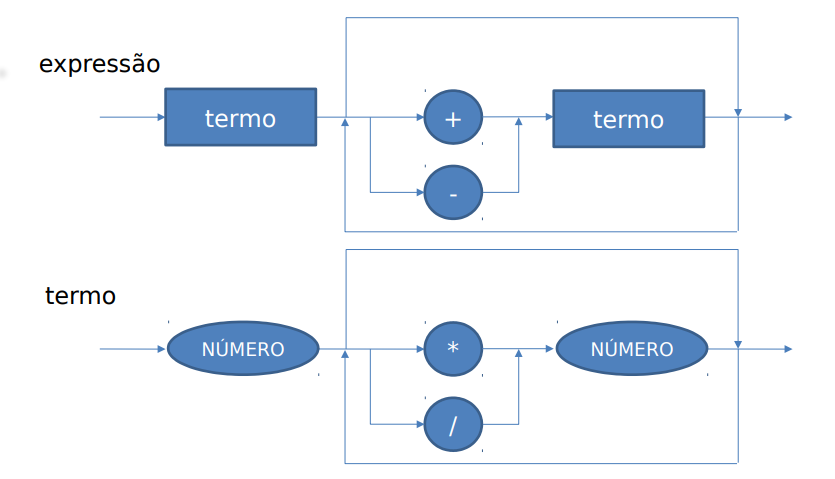
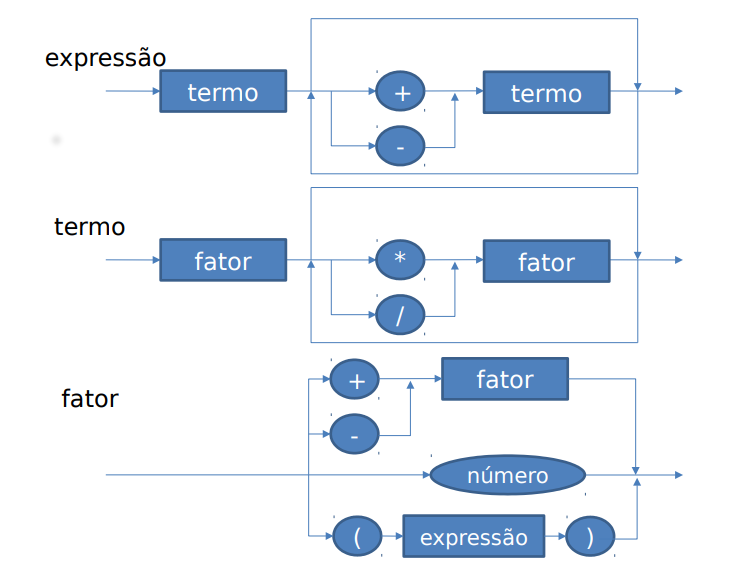
parênteses e operações unárias implementados e funcionando

diff --git a/Main.py b/Main.py
@@ -45,6 +45,14 @@ class Tokenizer:
             self.actual = Token("minus", "-")
             self.position = self.position + 1
 
+        elif self.origin[self.position] == '(': # se for abrir par
+            self.actual = Token("openpar", "(")
+            self.position = self.position + 1
+
+        elif self.origin[self.position] == ')': # se for fechar par
+            self.actual = Token("closepar", ")")
+            self.position = self.position + 1
+
         else:
             raise ValueError("Caractere inválido.")
 
@@ -53,28 +61,14 @@ class Tokenizer:
 class Parser:
     
     def parseTerm():
-        if Parser.tokens.actual.type == "int":
-            res = Parser.tokens.actual.value
-            Parser.tokens.selectNext()
-            while Parser.tokens.actual.type == "mult" or Parser.tokens.actual.type == "div":
-                if Parser.tokens.actual.type == "mult":
-                    Parser.tokens.selectNext()
-                    if Parser.tokens.actual.type == "int":
-                        res = res * Parser.tokens.actual.value
-                    else:
-                        raise ValueError('Esperava-se um int e foi encontrado um', Parser.tokens.actual.type, 'durante a soma.')
-                    
-                elif Parser.tokens.actual.type == "div":
-                    Parser.tokens.selectNext()
-                    if Parser.tokens.actual.type == "int":
-                        res = res // Parser.tokens.actual.value
-                    else:
-                        raise ValueError('Esperava-se um int e foi encontrado um', Parser.tokens.actual.type, 'durante a subtração.')
-                
+        res = Parser.parseFactor()
+        while Parser.tokens.actual.type == "mult" or Parser.tokens.actual.type == "div":
+            if Parser.tokens.actual.type == "mult":
                 Parser.tokens.selectNext()
-        else:
-            raise ValueError('Esperava-se um int e foi encontrado um', Parser.tokens.actual.type, 'no início da expressão.')
-        
+                res = res * Parser.parseFactor()
+            elif Parser.tokens.actual.type == "div":
+                Parser.tokens.selectNext()
+                res = res // Parser.parseFactor()    
         return res
 
     def parseExpression():
@@ -87,6 +81,33 @@ class Parser:
                 Parser.tokens.selectNext()
                 res = res - Parser.parseTerm()    
         return res
+
+    def parseFactor():
+        if Parser.tokens.actual.type == "int":
+            res = Parser.tokens.actual.value
+            Parser.tokens.selectNext()
+            return res
+        elif Parser.tokens.actual.type == "openpar":
+            Parser.tokens.selectNext()
+            res = Parser.parseExpression()
+            if Parser.tokens.actual.type == "closepar":
+                Parser.tokens.selectNext()
+                return res
+            else:
+                raise ValueError('Esperava-se um fecha parênteses e foi encontrado um {}.'.format(Parser.tokens.actual.type))
+
+        elif Parser.tokens.actual.type == "plus" or Parser.tokens.actual.type == "minus":
+            if Parser.tokens.actual.type == "plus":
+                Parser.tokens.selectNext()
+                res = Parser.parseFactor()
+                return res
+            else:
+                Parser.tokens.selectNext()
+                res = Parser.parseFactor()
+                return -res
+        
+        else:
+            raise ValueError('Token inválido.')
 
     def run(origin):
         Parser.tokens = Tokenizer(origin, None)

diff --git a/README.md b/README.md
@@ -3,7 +3,8 @@
 
 ### EBNF:
 ##### expressão = termo, {("+"|"-"), termo};
-##### termo = número, {("*"|"/"), número};
+##### termo = factor, {("*"|"/"), factor};
+##### factor = número | {("(", expressão, ")")} | (("+"|"-"), factor);
 
 ### Diagrama Sintático:
 ![Diagrama_compilador](imgs/diagramalc.png "Diagrama 1")
